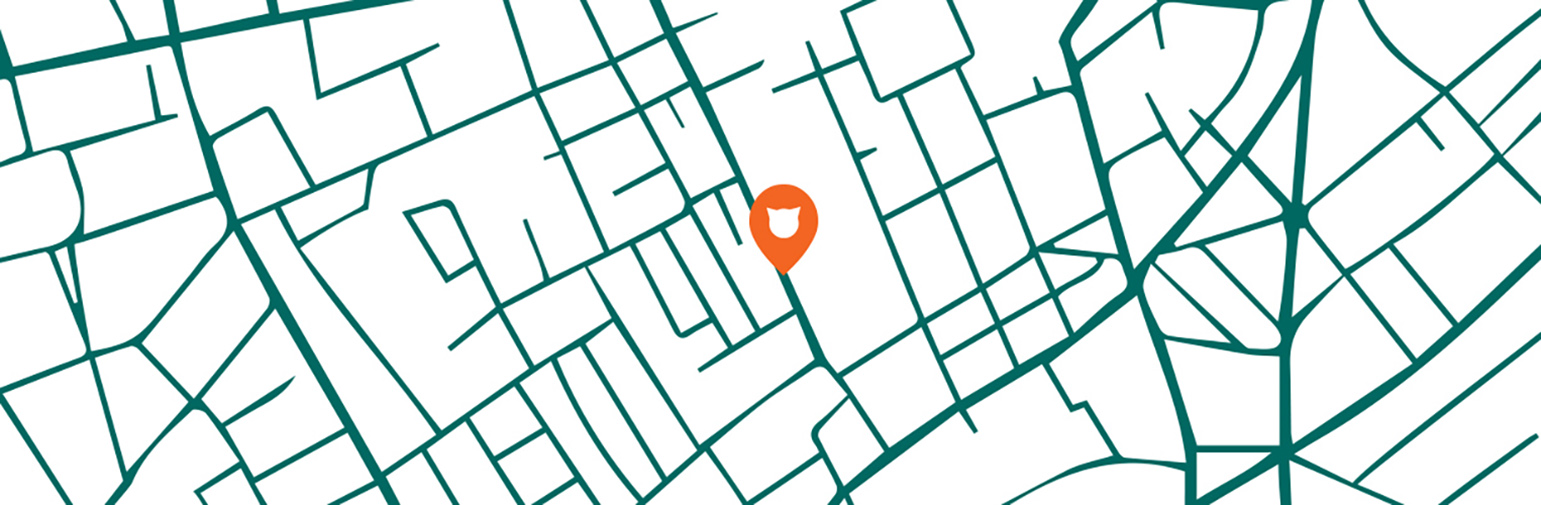
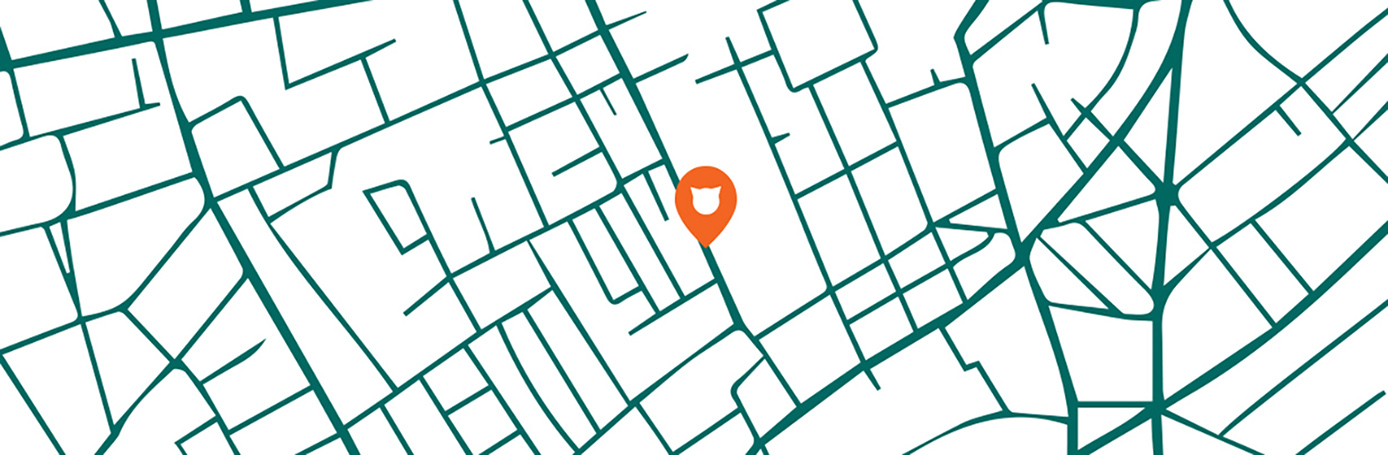
header image

diff --git a/assets/css/index.css b/assets/css/index.css
@@ -23,8 +23,10 @@ nav{
 .title{
   font-family: "PT Sans Narrow";
   font-size: 3rem;
-  padding: 1rem;
+  font-weight: bold;
+  padding: 2rem;
   text-align: center;
+
 }
 
 h2{
@@ -39,9 +41,9 @@ text-align: center;
   background-image: url("/Users/Damia/desktop/launchcode/cat_costume_project/assets/images/kats-hero-mobile-bg.jpg");
   background-repeat: no-repeat;
   background-position: center;
-  height: 50rem;
+  height: 55rem;
   width: 50rem;
-  z-index: -1;
+
   object-fit: cover;
   overflow: hidden;
   display: block;
@@ -52,35 +54,55 @@ text-align: center;
 
 
 .background-text{
+  display: flex;
+  flex-direction: column;
+  align-items: center;
+  font-family: "PT Sans Narrow";
+  font-size: 2.5rem;
+  font-weight: 600;
+  line-height: 5rem;
   text-align: center;
-  position: absolute;
+  position: relative;
   color: white;
   z-index: 1;
   text-transform: uppercase;
-  top: 8rem;
+  top: 5.5rem;
+  padding: 4rem;
 
 }
 
-.cat-image{
+.text-1{
+  align-self: flex-start;
+  padding-left: 2rem;
+}
+
+.text-2{
+  align-self: flex-end;
+}
+
+.hero-cat{
   display: block;
+  position: relative;
   text-align: center;
   z-index: 2;
-  height: 45rem;
+  height: 53rem;
   width: auto;
-  right: 18rem;
-  down;
+  left: 8rem;
+  top: -21rem;
 
 
 }
 
 .purr{
 display: block;
-font-size: 3rem;
+font-size: 6.5rem;
+font-style: italic;
 text-align: center;
 }
 
 .cattitude{
-  min-width: 50rem;
+  max-width: 66rem;
+
 }
 
 p{
@@ -149,7 +171,7 @@ color: #f26522;
   background-image: url("/Users/Damia/desktop/launchcode/cat_costume_project/assets/images/kats-map.jpg");
   background-repeat: no-repeat;
   background-position: center;
-  height: 50rem;
+  height: 45rem;
   width: 50rem;
   object-fit: cover;
   overflow: hidden;
@@ -165,14 +187,16 @@ color: #f26522;
   }
 
 .footer-text{
-  width: 50rem;
+  width: 100vpw
+  min-width: 50rem;
+  max-width: 66rem;
   color: white;
   background-color: #00897f;
   font-family: "PT Sans Narrow";
-  font-size: 2rem ;
-  padding-top: 2rem;
-  padding-bottom: 6rem;
-  text-align:center;
+  font-size: 3rem ;
+  padding-top: 3rem;
+  padding-bottom: 8rem;
+  text-align: center;
   margin: 0;
 }
 

diff --git a/index.html b/index.html
@@ -23,7 +23,7 @@
           <div class="background-text">
             <span class="text-1">Find the</span> <span class="purr">Purrrrrrrfect</span> <span class="text-2">Costume</span>
           </div>
-          <img class="cat-image" src="/Users/Damia/desktop/launchcode/cat_costume_project/assets/images/kats-hero-mobile.png" alt="hero cat">
+          <img class="hero-cat" src="/Users/Damia/desktop/launchcode/cat_costume_project/assets/images/kats-hero-mobile.png" alt="hero cat">
 
       <!--
           Desktop and Mobile hero images should be displayed here.
